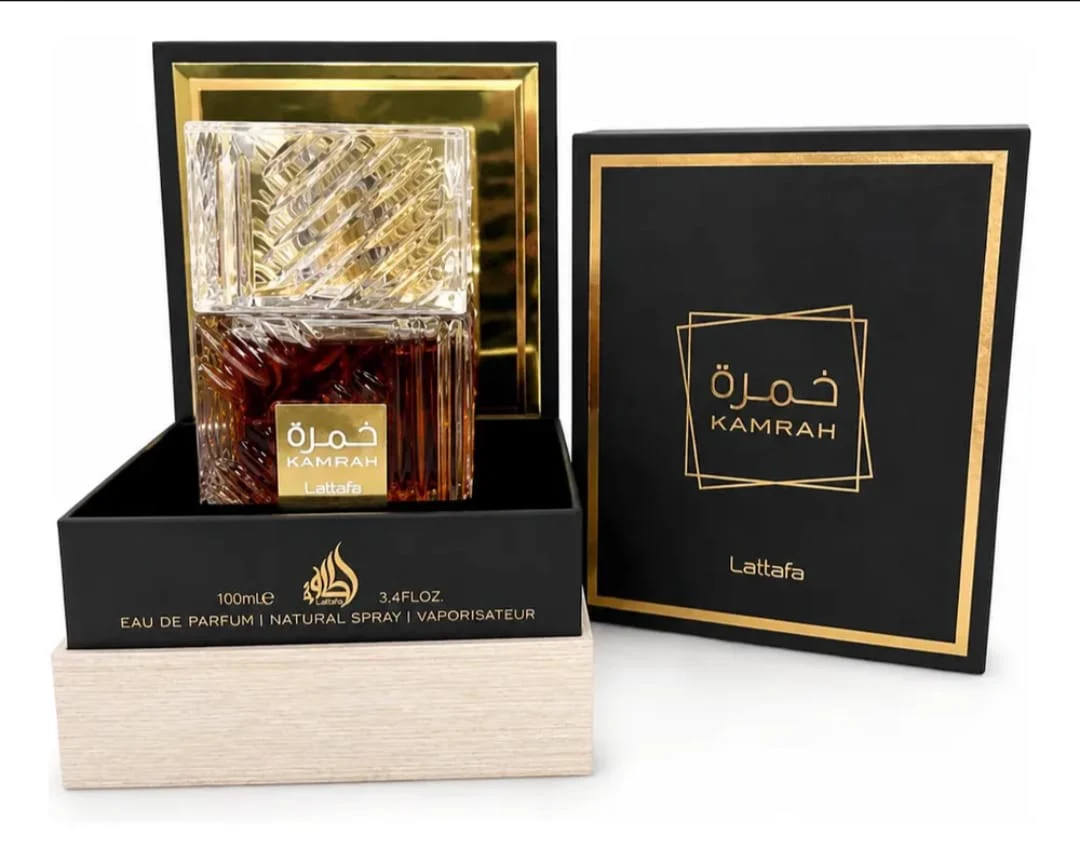
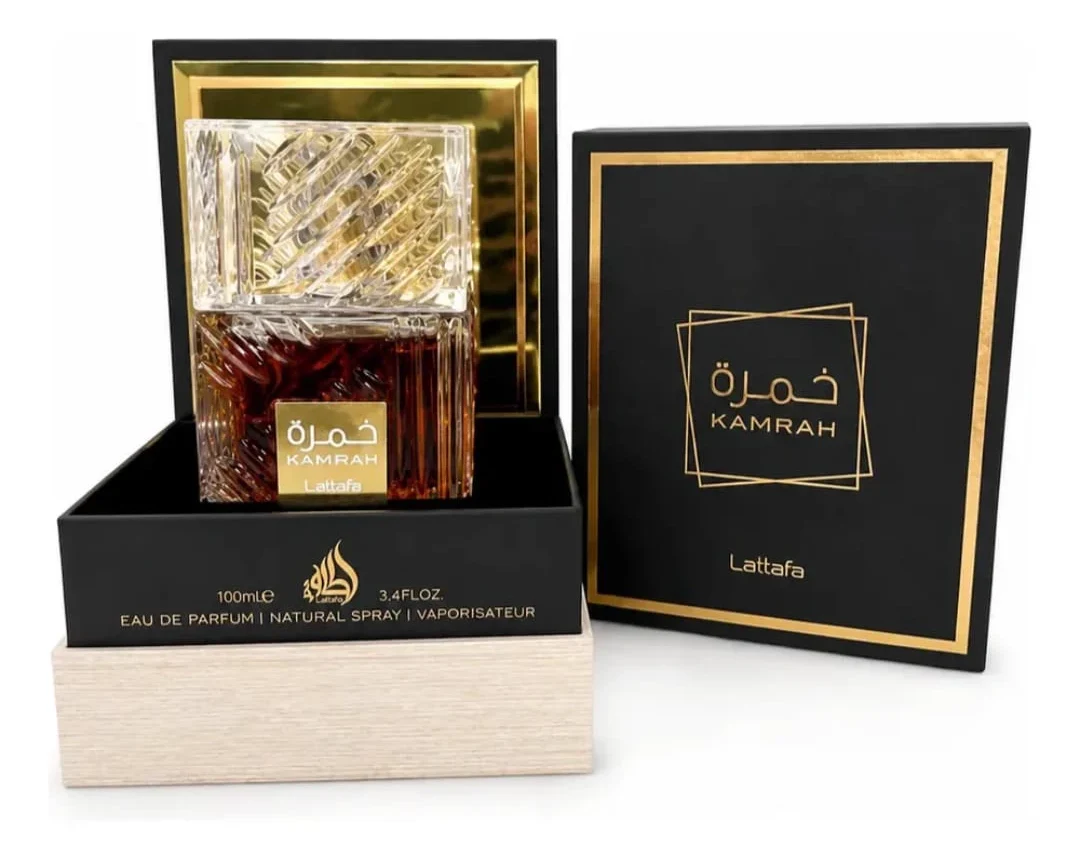
fix: corregir imagenes con lineas/bandas oscuras y mejorar UI de fichas
- Recortar 15 imagenes con capturas de app o lineas negras/grises en bordes
- object-cover -> object-contain y fondo blanco en tarjeta, modal y ficha (packaging completo, sin linea entre imagen y fondo)
- Quitar degradado de las tarjetas (generaba banda gris sobre el espacio en blanco)
- Desactivar AVIF (solo WebP) en next.config: el optimizador se colgaba generando AVIF y dejaba tarjetas en blanco
- Modal: boton X como circulo negro y flechas con fondo oscuro + sombra para legibilidad en movil

diff --git a/components/ProductModal.tsx b/components/ProductModal.tsx
@@ -84,25 +84,25 @@ export default function ProductModal({ products, index, onClose, onNavigate }: P
       <button
         onClick={onClose}
         aria-label="Cerrar ficha"
-        className="absolute top-4 right-4 sm:top-6 sm:right-6 z-20 flex items-center justify-center w-10 h-10 text-white/70 hover:text-white transition-colors focus-visible:outline-none focus-visible:ring-2 focus-visible:ring-gold"
+        className="absolute top-4 right-4 sm:top-6 sm:right-6 z-20 flex items-center justify-center w-11 h-11 rounded-full bg-ink/90 hover:bg-ink text-white shadow-[0_2px_12px_rgba(0,0,0,0.45)] ring-1 ring-white/15 transition-colors focus-visible:outline-none focus-visible:ring-2 focus-visible:ring-gold"
       >
-        <X className="w-6 h-6" strokeWidth={1.5} />
+        <X className="w-5 h-5" strokeWidth={2} />
       </button>
 
       {/* Prev / Next */}
       <button
         onClick={(e) => { e.stopPropagation(); goPrev() }}
         aria-label="Perfume anterior"
-        className="absolute left-2 sm:left-6 z-20 flex items-center justify-center w-11 h-11 rounded-full bg-white/10 hover:bg-white/20 text-white transition-colors focus-visible:outline-none focus-visible:ring-2 focus-visible:ring-gold"
+        className="absolute left-2 sm:left-6 z-20 flex items-center justify-center w-11 h-11 rounded-full bg-ink/80 hover:bg-ink text-white shadow-[0_2px_12px_rgba(0,0,0,0.45)] ring-1 ring-white/15 transition-colors focus-visible:outline-none focus-visible:ring-2 focus-visible:ring-gold"
       >
-        <ChevronLeft className="w-6 h-6" strokeWidth={1.5} />
+        <ChevronLeft className="w-6 h-6" strokeWidth={2} />
       </button>
       <button
         onClick={(e) => { e.stopPropagation(); goNext() }}
         aria-label="Perfume siguiente"
-        className="absolute right-2 sm:right-6 z-20 flex items-center justify-center w-11 h-11 rounded-full bg-white/10 hover:bg-white/20 text-white transition-colors focus-visible:outline-none focus-visible:ring-2 focus-visible:ring-gold"
+        className="absolute right-2 sm:right-6 z-20 flex items-center justify-center w-11 h-11 rounded-full bg-ink/80 hover:bg-ink text-white shadow-[0_2px_12px_rgba(0,0,0,0.45)] ring-1 ring-white/15 transition-colors focus-visible:outline-none focus-visible:ring-2 focus-visible:ring-gold"
       >
-        <ChevronRight className="w-6 h-6" strokeWidth={1.5} />
+        <ChevronRight className="w-6 h-6" strokeWidth={2} />
       </button>
 
       {/* Panel */}
@@ -126,13 +126,13 @@ export default function ProductModal({ products, index, onClose, onNavigate }: P
             className="flex flex-col md:flex-row w-full"
           >
             {/* Image */}
-            <div className="relative w-full md:w-1/2 shrink-0 bg-ink/[0.03]" style={{ aspectRatio: '4/5' }}>
+            <div className="relative w-full md:w-1/2 shrink-0 bg-white" style={{ aspectRatio: '4/5' }}>
               <Image
                 src={product.imagen}
                 alt={`${product.nombre} — ${product.marca}`}
                 fill
                 sizes="(min-width: 768px) 384px, 100vw"
-                className="object-cover"
+                className="object-contain p-4"
               />
               <span
                 className={`absolute top-3 left-3 text-[9px] font-sans uppercase tracking-[0.15em] px-2.5 py-1 ${CATEGORY_STYLE[product.categoria]}`}

diff --git a/components/ProductCard.tsx b/components/ProductCard.tsx
@@ -43,16 +43,14 @@ export default function ProductCard({ product, onOpen }: { product: Product; onO
       className="group relative flex flex-col bg-white border border-ink/[0.07] hover:border-gold/50 transition-all duration-400 hover:shadow-[0_8px_32px_rgba(197,160,89,0.12)] cursor-pointer focus-visible:outline-none focus-visible:ring-2 focus-visible:ring-gold focus-visible:ring-offset-2"
     >
       {/* Image */}
-      <div className="relative overflow-hidden" style={{ aspectRatio: '4/5' }}>
+      <div className="relative overflow-hidden bg-white" style={{ aspectRatio: '4/5' }}>
         <Image
           src={imagen}
           alt={`${nombre} — ${marca}`}
           fill
           sizes="(min-width: 1280px) 25vw, (min-width: 1024px) 33vw, 50vw"
-          className="object-cover transition-transform duration-700 group-hover:scale-[1.04]"
+          className="object-contain p-4 transition-transform duration-700 group-hover:scale-[1.04]"
         />
-        {/* Gradient overlay at bottom of image */}
-        <div className="absolute inset-x-0 bottom-0 h-20 bg-gradient-to-t from-black/30 to-transparent" />
 
         {/* Category badge */}
         <span

diff --git a/app/perfume/[slug]/page.tsx b/app/perfume/[slug]/page.tsx
@@ -102,7 +102,7 @@ export default async function PerfumePage(
         <div className="flex flex-col md:flex-row gap-8 md:gap-12">
           {/* Image */}
           <div
-            className="relative w-full md:w-1/2 shrink-0 bg-ink/[0.03] border border-ink/[0.07]"
+            className="relative w-full md:w-1/2 shrink-0 bg-white border border-ink/[0.07]"
             style={{ aspectRatio: '4/5' }}
           >
             <Image
@@ -111,7 +111,7 @@ export default async function PerfumePage(
               fill
               priority
               sizes="(min-width: 768px) 448px, 100vw"
-              className="object-cover"
+              className="object-contain p-6"
             />
             <span
               className={`absolute top-3 left-3 text-[9px] font-sans uppercase tracking-[0.15em] px-2.5 py-1 ${CATEGORY_STYLE[product.categoria]}`}

diff --git a/next.config.ts b/next.config.ts
@@ -2,7 +2,9 @@ import type { NextConfig } from 'next'
 
 const nextConfig: NextConfig = {
   images: {
-    formats: ['image/avif', 'image/webp'],
+    // AVIF deshabilitado: el optimizador en dev/runtime se cuelga generando AVIF
+    // para algunas imágenes (dejaba tarjetas en blanco). WebP es fiable y ligero.
+    formats: ['image/webp'],
   },
 }
 
